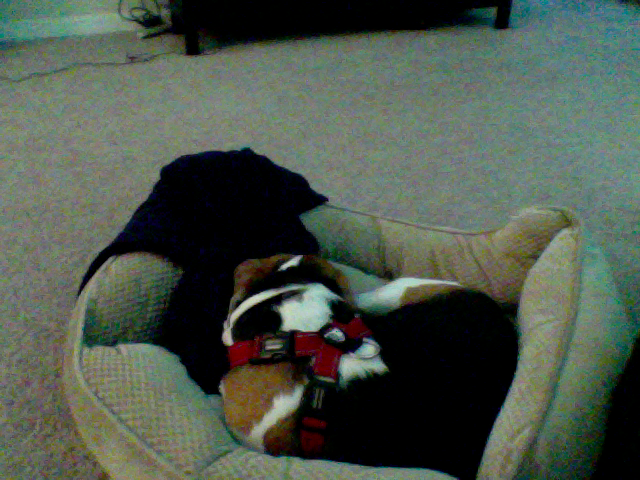
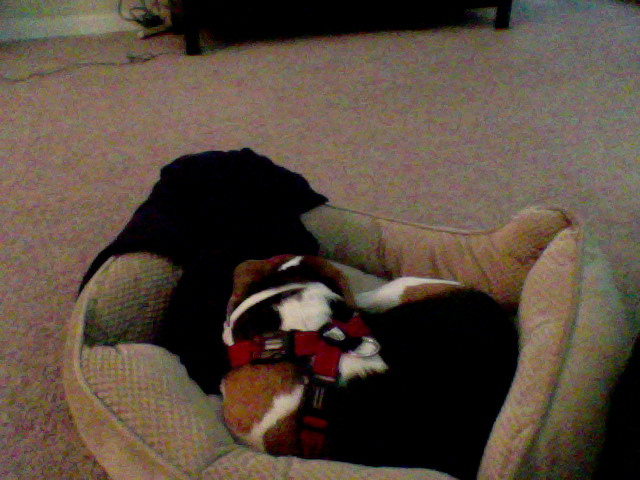
update at Month05Day12Time09:53

diff --git a/index.html b/index.html
@@ -39,8 +39,8 @@
       <!-- Example row of columns -->
       <div class="row">
         <div class="col-md-4">
-	<p>This picture was updated at Month05Day12Time09:52</p>
-		<img src="5_pic.png" />
+	<p>This picture was updated at Month05Day12Time09:53</p>
+		<img src="3_pic.png" />
         </div>
       </div>
 
